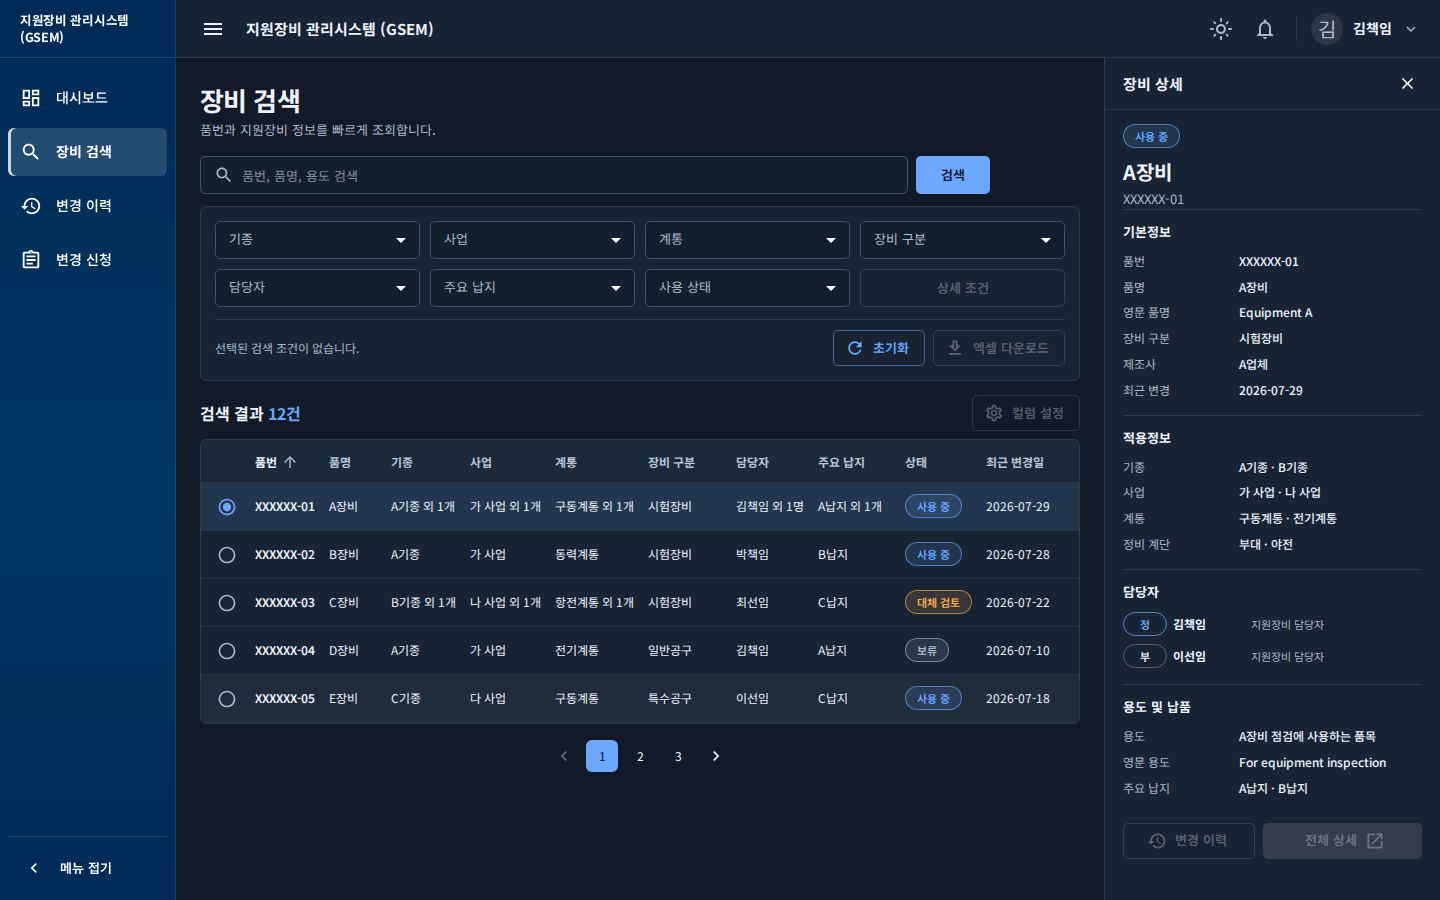
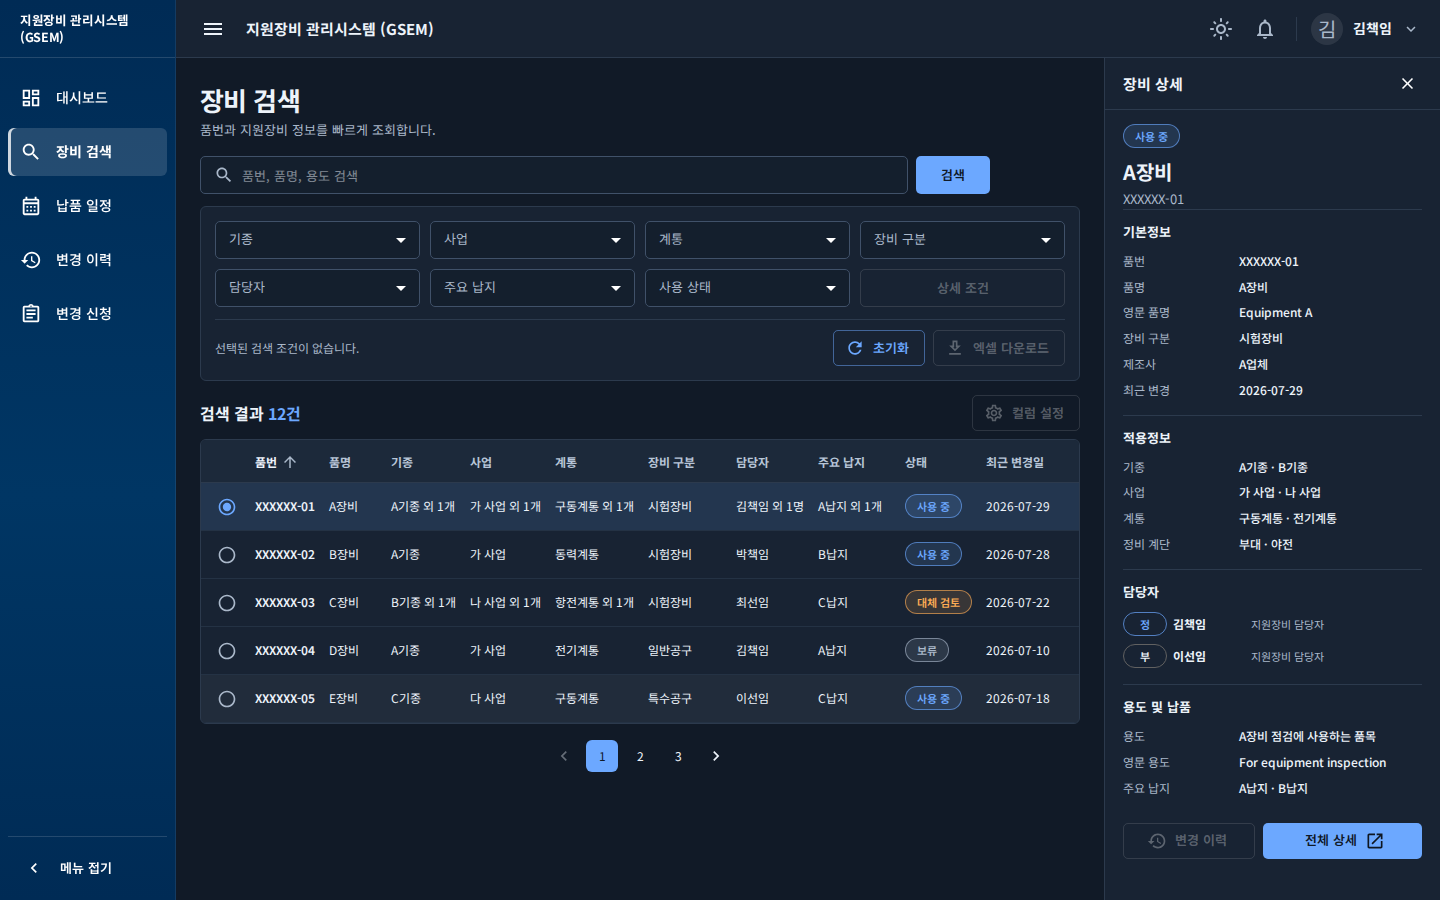
문서: V4 조회 안정화 검수 결과와 화면 추가

diff --git a/docs/development/prototype-v4-release-qa.md b/docs/development/prototype-v4-release-qa.md
@@ -1,0 +1,50 @@
+# 프로토타입 V4 릴리즈 검수 결과
+
+## 릴리즈 목적
+
+V4는 신규 업무 기능을 늘리는 릴리즈가 아니라 전체 조회 UX를 안정화한 기준본이다. 여섯 화면이 같은 조회 상태 모델과 Mock·HTTP 전환 구조를 사용하도록 고정하고, 이후 업무 시나리오 개발의 안전한 출발점으로 사용한다.
+
+## 포함 화면과 조회 상태
+
+| 화면 | 로딩 | 오류·재시도 | 빈 결과 | 오래된 응답 보호 |
+| --- | --- | --- | --- | --- |
+| 메인 대시보드 | 적용 | 적용 | 적용 | 적용 |
+| 장비 검색 | 적용 | 적용 | 적용 | 적용 |
+| 장비 통합 상세 | 적용 | 적용 | 적용 | 적용 |
+| 납품 일정 관리 | 적용 | 적용 | 적용 | 적용 |
+| 변경 신청 및 처리 현황 | 적용 | 적용 | 적용 | 적용 |
+| 장비 변경 이력 | 적용 | 적용 | 적용 | 적용 |
+
+## 자동 검증 결과
+
+- TypeScript 검사: 통과
+- ESLint: 경고 0건 통과
+- Vitest: 13개 파일, 33개 테스트 통과
+- OpenAPI·Stub API 계약: 18개 테스트 통과
+- 프로덕션 빌드: 통과
+- Mock 모드 Playwright: 1440×900 시나리오 10개 통과
+- HTTP API 모드 Playwright: 전체 조회 시나리오 1개 통과
+- 대시보드 핵심 업무 수치: `12 = 3 + 5 + 4` 통과
+
+## 화면 검수
+
+- 여섯 화면을 라이트·다크 모드로 각각 캡처해 총 12장을 확인했다.
+- 모든 이미지는 1440×900이며 공통 사이드바 176px, 헤더 58px를 유지한다.
+- 가로 넘침, 요소 잘림, 깨진 한글, 금지 직급, `기준정보 관리` 메뉴 및 실제 사내 데이터가 없다.
+- 장비 통합 상세의 세로 스크롤은 정보량에 따른 정상 동작이다.
+
+## 발견 및 수정
+
+- 개발 서버에서 React Flow와 차트가 동시에 크기를 다시 계산할 때 Vite 개발 클라이언트가 `ResizeObserver` 알림을 오류처럼 기록하는 현상을 확인했다.
+- 오류를 숨기지 않고 실제 사용자에게 제공할 프로덕션 빌드를 Playwright가 검증하도록 실행 구조를 바꿨다. Mock·HTTP 모드 모두 프로덕션 미리보기 서버를 사용한다.
+- 실행 환경의 npm 기본 캐시 권한 제약은 프로젝트 문제가 아니므로 임시 캐시로 의존성을 설치해 검증했다.
+
+## 프로토타입 가정과 미확정
+
+- 품목·납품·변경 상태값과 처리 순서는 운영 규칙이 아닌 프로토타입 가정이다.
+- 담당자 정·부 구분, 관리 품목 유형 저장 위치, 지연 판정 규칙은 미확정이다.
+- 실제 DB, 로그인, 승인·반려, 운영 배포는 포함하지 않는다.
+
+## 최종 판정
+
+조회 UX, 데이터 접근 경계, 라이트·다크 화면과 자동 검증이 V4 릴리즈 기준을 충족한다. `release/prototype-v4`는 이 검수 결과가 병합된 `develop/prototype` 커밋에서 생성한다.

diff --git a/README.md b/README.md
@@ -29,7 +29,7 @@
   - 신청 목록, 검색·필터, 변경 전·후 비교
   - 사유·근거·처리 과정 조회
 
-변경 이력 그래프, 실제 변경 승인·저장, 실제 다운로드, 실제 로그인, DB 연동과 운영 백엔드는 현재 구현 범위에서 제외했습니다.
+장비 변경 이력의 5단계 대체 계보와 전체 조회 화면의 로딩·오류·빈 결과·재시도 상태를 구현했습니다. 실제 변경 승인·저장, 실제 다운로드, 실제 로그인, DB 연동과 운영 백엔드는 현재 구현 범위에서 제외했습니다.
 
 ## 기술 구성
 

diff --git a/docs/prototype-screenshots/README.md b/docs/prototype-screenshots/README.md
@@ -1,6 +1,12 @@
 # 프로토타입 실행 화면
 
-Playwright로 1440×900 환경에서 검수한 메인 대시보드와 장비 검색 화면입니다.
+Playwright로 1440×900 환경에서 검수한 전체 프로토타입 화면입니다.
 
 - `dashboard.png`
 - `equipment-search.png`
+- `equipment-detail.png`
+- `delivery-schedule.png`
+- `change-request.png`
+- `change-history.png`
+
+각 화면의 `*-dark.png` 파일은 동일 화면의 다크 모드 검수본이다. 모든 데이터는 공개 저장소용 일반화 목업이다.
